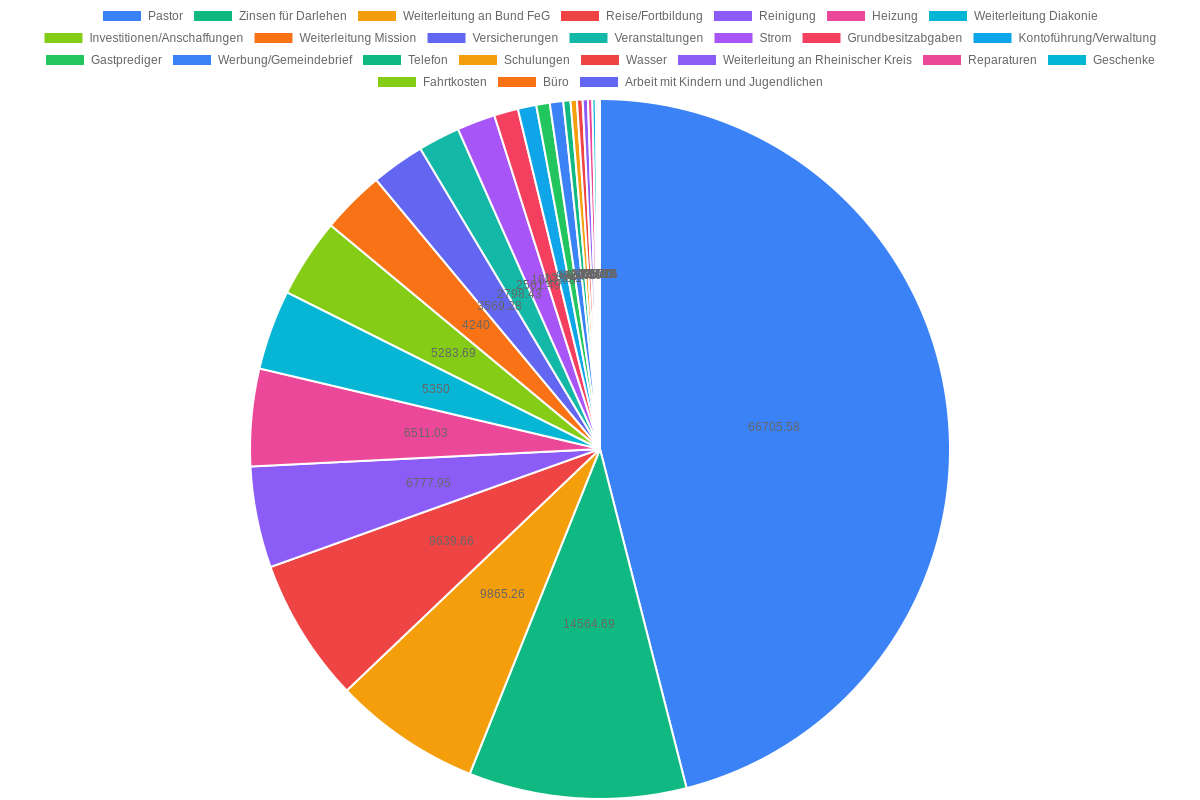
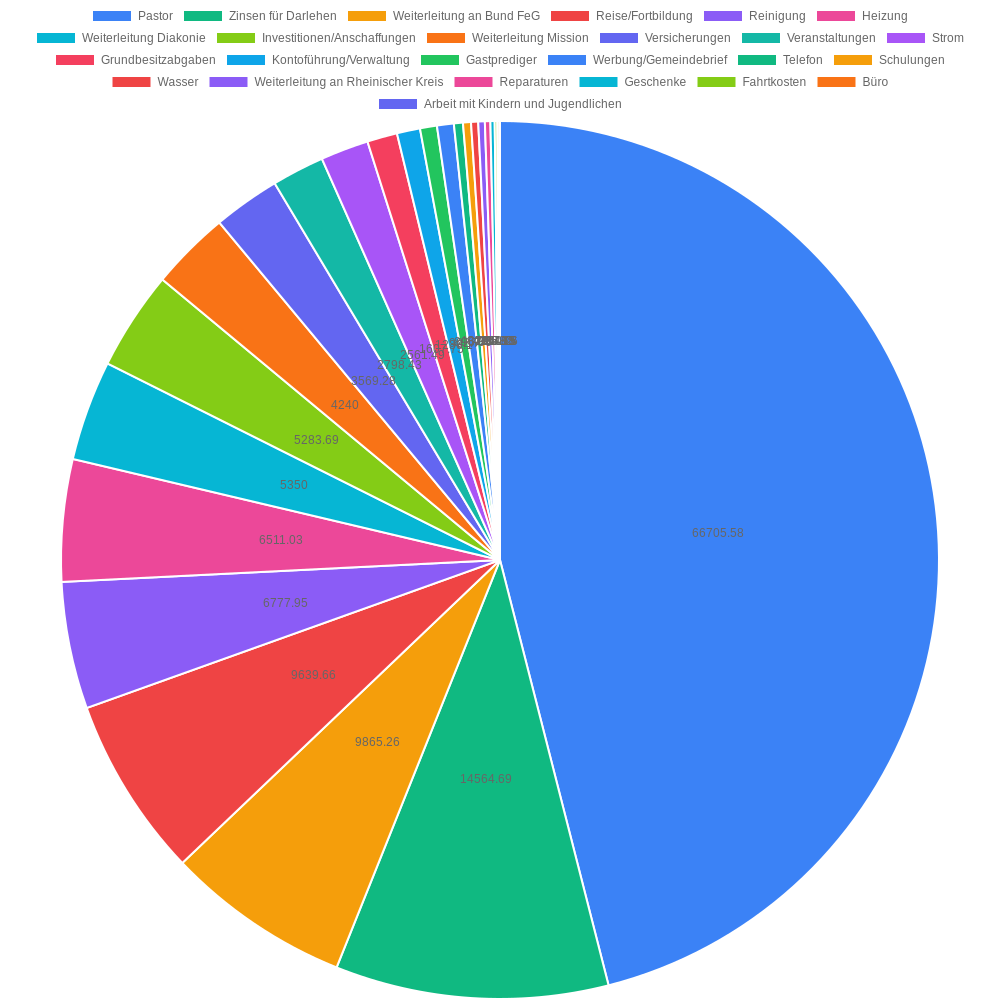
chore: Schriftgröße der Kategorien auf 80% verkleinern

diff --git a/generate-presentation.js b/generate-presentation.js
@@ -821,7 +821,7 @@ async function createIncomeChart(profitLossReports, years) {
             boxWidth: 15,
             padding: 8,
             font: {
-              size: 10
+              size: 26
             }
           }
         },
@@ -987,8 +987,13 @@ async function createExpensesChart(profitLossReports, years) {
     });
     const colorIndex = index % COLORS.chartColors.length;
     const color = COLORS.chartColors[colorIndex];
+    // Wenn 'Weiterleitung' im Kategorienamen vorkommt, ersetze es durch 'WL'
+    let shortLabel = category;
+    if (typeof category === 'string' && category.indexOf('Weiterleitung') !== -1) {
+      shortLabel = category.replace(/Weiterleitung/g, 'WL');
+    }
     const ds = {
-      label: category,
+      label: shortLabel,
       data: values,
       backgroundColor: `#${color}`,
       borderColor: `#${color}`,
@@ -1009,7 +1014,8 @@ async function createExpensesChart(profitLossReports, years) {
         }
       },
       color: '#ffffff',
-      font: { weight: 'bold', size: 22 },
+      // Kategorie-Schriftgröße auf ca. 80% setzen (22 -> 18)
+      font: { weight: 'bold', size: 18 },
       formatter: function(value, context) {
         try {
           const label = context && context.dataset && context.dataset.label ? context.dataset.label : '';
@@ -1088,7 +1094,7 @@ async function createExpensesChart(profitLossReports, years) {
             boxWidth: 30,
             padding: 16,
             font: {
-              size: 20
+              size: 40
             }
           }
         },
@@ -1111,6 +1117,10 @@ async function createExpensesChart(profitLossReports, years) {
           title: {
             display: false
           },
+          ticks: {
+            // Schriftgröße der Achsenbeschriftung (verdoppelt)
+            font: { size: 20 }
+          },
           grid: {
             display: true,
             color: 'rgba(0, 0, 0, 0.1)'
@@ -1122,6 +1132,8 @@ async function createExpensesChart(profitLossReports, years) {
           max: yAxisMax,
           ticks: {
             stepSize: 20000,
+            // Schriftgröße der Y-Achsenbeschriftungen (verdoppelt)
+            font: { size: 20 },
             callback: function(value) {
               return formatGermanNumber(value);
             }
@@ -1143,8 +1155,9 @@ async function createExpensesChart(profitLossReports, years) {
   // Erstelle QuickChart-Instanz
   const chart = new QuickChart();
   chart.setConfig(configuration);
-  chart.setWidth(1200);
-  chart.setHeight(1200);
+  // Reduziere Auflösung um Faktor 2 (verringert DPI und führt zu besserer Lesbarkeit der Schriftarten)
+  chart.setWidth(1000);
+  chart.setHeight(800);
   chart.setFormat('png');
   chart.setBackgroundColor('white');
   
@@ -1244,8 +1257,8 @@ async function createExpensesPieChart(profitLossReports, years) {
   // Erstelle QuickChart-Instanz
   const chart = new QuickChart();
   chart.setConfig(configuration);
-  chart.setWidth(1200);
-  chart.setHeight(800);
+  chart.setWidth(1000);
+  chart.setHeight(1000);
   chart.setFormat('png');
   chart.setBackgroundColor('white');
   
